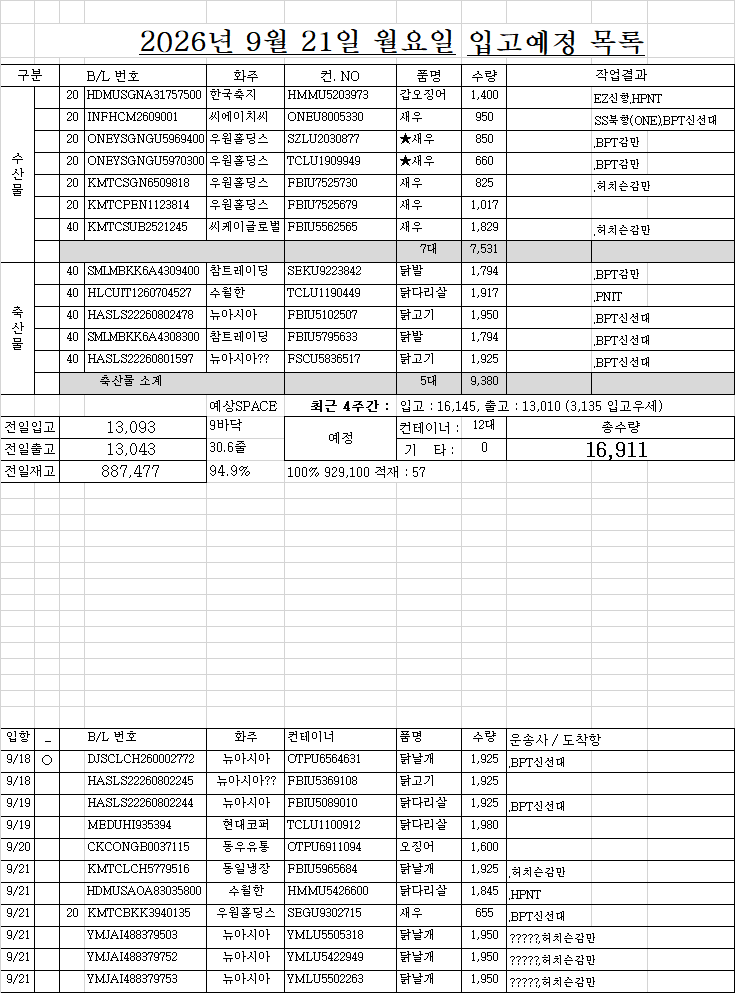
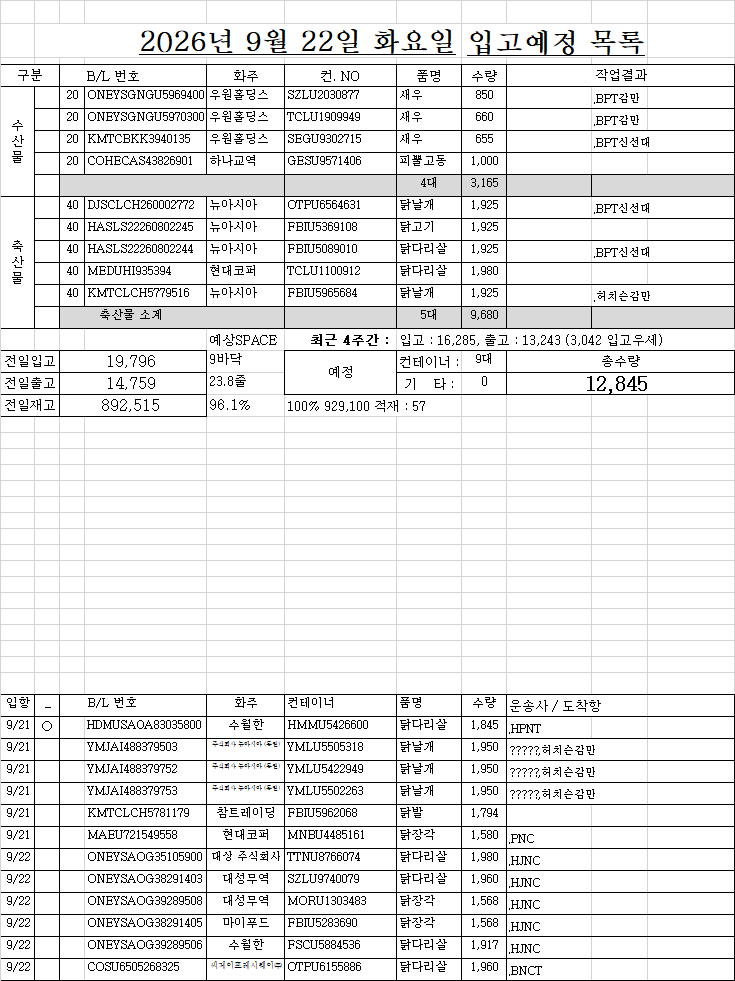
0921

diff --git a/list.html b/list.html
@@ -171,54 +171,45 @@
 <!-- ★★★★★★ 따로 빼 놔야한다. 복붙하면 첫칸 비어도 되는데, 여기서는 첫칸비우면 당겨진다. -->
 <!-- ★ 엑셀범위를 브라우저 textarea에 붙여넣으면 첫셀 비어도 제대로 되는데... HTML에 붙여놓은 자료는 처음셀이 비어있으면 당겨짐 -->
 <div class="d-none" id="원본text_리스트1부터w요약열까지">작성	면허	B/LNO.	화주	컨테이너NO.	품명	수량	반입NO.	입항일	구분	도착일	도착시간	구분	운도VBA	04/27 월 07:21	화찰BL	화찰 선명	화물관리번호	화찰수량	화찰중량	화찰입항	리스트시트기준열	
-1	○	HDMUSGNA31757500	한국축지	HMMU5203973	갑오징어	1,400 		9/17	1			20	EZ신항.HPNT	(주)이지트랜스, CY : 에이치엠엠피에스에이신항만(주), 컨진행 : 입항적재화물목록 운항정보 정정, 선사 : 에이치엠엠(주)	HDMUSGNA31757500	HMM MIRACLE	26HDMUA499I-0231-	1,400 	4,928.00 	2026.09.17	09/18 금 16:33	
-1	○	INFHCM2609001	씨에이치씨	ONEU8005330	새우	950 		9/18	1			20	SS북항(ONE).BPT신선대	(주)에스에스물류, CY : 신선대감만터미널(주) 신선대CY, 컨진행 : 입항적재화물목록 운항정보 정정, 선사 : 피아이엘코리아(주), 포딩 : 주식회사 엔제이글로벌	INFHCM2609001	KOTA GAYA	26PILK0053I-5044-0001	950 	7,125.00 	2026.09.18	조회정보	
-1	○	ONEYSGNGU5969400	우원홀딩스	SZLU2030877	★새우	850 		9/18	1			20	.BPT감만	(주)에스에스물류, CY : 신선대감만터미널(주) 감만CY, 컨진행 : 보세운송 신고 수리, 선사 : 남성해운주식회사	ONEYSGNGU5969400	STARSHIP MERCURY	26NSSLI062I-5061-	850 	9,775.00 	2026.09.18	적재	57
-1	○	ONEYSGNGU5970300	우원홀딩스	TCLU1909949	★새우	660 		9/18	1			20	.BPT감만	(주)에스에스물류, CY : 신선대감만터미널(주) 감만CY, 컨진행 : 보세운송 신고 수리, 선사 : 남성해운주식회사	ONEYSGNGU5970300	STARSHIP MERCURY	26NSSLI062I-5062-	660 	4,620.00 	2026.09.18	4,617 	3줄
-1	○	KMTCSGN6509818	우원홀딩스	FBIU7525730	새우	825 		9/18	1			20	.허치슨감만	(주)에스에스물류, CY : 한국허치슨터미널(주), 컨진행 : 하선신고 수리완료, 선사 : 천경해운(주)	KMTCSGN6509818	SKY CHALLENGE	26CKCO0932I-0009-	825 	7,199.55 	2026.09.18	6,156 	4줄
-1	○	KMTCPEN1123814	우원홀딩스	FBIU7525679	새우	1,017 		9/18	1			20		(주)에스에스물류, CY : 한국허치슨터미널(주), 컨진행 : 보세운송 신고 수리, 선사 : 고려해운(주)	KMTCPEN1123814	KMTC KEELUNG	26KMTC3207I-0069-	1,017 	7,890.50 	2026.09.18	7,695 	5줄
-1		KMTCSUB2521245	씨케이글로벌	FBIU5562565	새우	1,829 		9/19	1				.허치슨감만	면허?, CY : 한국허치슨터미널(주), 컨진행 : 입항적재화물목록 제출, 선사 : 고려해운(주)	KMTCSUB2521245	KMTC SHANGHAI	26KMTC3199I-0044-	1,829 	21,948.00 	2026.09.19	9,234 	6줄
-1	○	SMLMBKK6A4309400	참트레이딩	SEKU9223842	닭발	1,794 		9/16	2				.BPT감만	(주)나모티엘에스, CY : 신선대감만터미널(주) 감만CY, 컨진행 : 보세운송 신고 수리, 선사 : 범주해운(주)	SMLMBKK6A4309400	PANCON BRIDGE	26PCLUBK12I-3305-	1,794 	22,604.40 	2026.09.16	구분	대수
-1	○	HLCUIT1260704527	수월한	TCLU1190449	닭다리살	1,917 		9/17	2	9/18	16:21		.PNIT	에이스로지스틱(주), CY : 부산신항국제터미널(주), 컨진행 : 반출완료, 선사 : 오션네트워크익스프레스코리아(주)	HLCUIT1260704527	ONE SHINE	26ONEY1499I-0006-	1,917 	23,962.50 	2026.09.17	출고입고	4주간
-1	○	HASLS22260802478	뉴아시아	FBIU5102507	닭고기	1,950 		9/18	2				.BPT신선대	에이스로지스틱(주), CY : 신선대감만터미널(주) 신선대CY, 컨진행 : 입항적재화물목록 운항정보 정정, 선사 : 범주해운(주)	HASLS22260802478	PANCON CHAMPION	26PCLUCK09I-1044-	1,950 	24,960.00 	2026.09.18	1일 7/5	9바닥줄
-1	○	SMLMBKK6A4308300	참트레이딩	FBIU5795633	닭발	1,794 		9/18	2				.BPT신선대	(주)나모티엘에스, CY : 신선대감만터미널(주) 신선대CY, 컨진행 : 입항적재화물목록 운항정보 정정, 선사 : 범주해운(주)	SMLMBKK6A4308300	PANCON CHAMPION	26PCLUCK09I-8005-	1,794 	22,604.40 	2026.09.18	13,010 	8.5
-1	○	HASLS22260801597	뉴아시아??	FSCU5836517	닭고기	1,925 		9/19	2				.BPT신선대	에이스로지스틱(주), CY : 신선대감만터미널(주) 신선대CY, 컨진행 : 하선신고 수리완료, 선사 : 장금상선(주)	HASLS22260801597	SAWASDEE RIGEL	26SNKO3423I-2164-	1,925 	24,640.00 	2026.09.19	16,145 	10.5
-2	○	DJSCLCH260002772	뉴아시아	OTPU6564631	닭날개	1,925 		9/18	2				.BPT신선대	에이스로지스틱(주), CY : 신선대감만터미널(주) 신선대CY, 컨진행 : 보세운송 신고 수리, 선사 : 범주해운(주)	DJSCLCH260002772	PANCON CHAMPION	26PCLUCK09I-5114-	1,925 	24,640.00 	2026.09.18	내국제외	
-		HASLS22260802245	뉴아시아??	FBIU5369108	닭고기	1,925 		9/18	2												구분	대수
-		HASLS22260802244	뉴아시아	FBIU5089010	닭다리살	1,925 		9/19	2				.BPT신선대								수산	19 
-		MEDUHI935394	현대코퍼	TCLU1100912	닭다리살	1,980 		9/19	2					면허?, CY : 부산신항만(주)자유무역지역, 컨진행 : 하선신고 수리완료, 선사 : 엠에스씨코리아(주)	MEDUHI935394	MSC LOS ANGELES	26MSCU4342I-0043-	1,980 	24,924.24 	2026.09.19	축산	56 
-		CKCONGB0037115	동우유통	OTPU6911094	오징어	1,600 	글자번짐	9/20	1												합계	75 
-		KMTCLCH5779516	동일냉장	FBIU5965684	닭날개	1,925 		9/21	2				.허치슨감만									
-		HDMUSAOA83035800	수월한	HMMU5426600	닭다리살	1,845 		9/21	2				.HPNT	면허?, CY : 에이치엠엠피에스에이신항만(주), 컨진행 : 입항적재화물목록 제출, 선사 : 에이치엠엠(주)	HDMUSAOA83035800	HMM LIME	26HDMUA485I-0341-	1,845 	23,164.76 	2026.09.21	화주	대수
-		KMTCBKK3940135	우원홀딩스	SEGU9302715	새우	655 		9/21	1			20	.BPT신선대	면허?, CY : 신선대감만터미널(주) 감만CY, 컨진행 : 입항적재화물목록 심사완료, 선사 : 고려해운(주)	KMTCBKK3940135	KMTC BANGKOK	26KMTC3219I-0008-	655 	4,920.85 	2026.09.21	수월한	13
-		YMJAI488379503	주식회사 뉴아시아 (동일)	YMLU5505318	닭날개	1,950 		9/21	2				?????,허치슨감만	면허?, CY : 한국허치슨터미널(주), 컨진행 : 입항적재화물목록 심사완료, 선사 : 고려해운(주)	YMJAI488379503	KMTC SEOUL	26KMTC3203I-4032-	1,950 	24,453.00 	2026.09.21	우원홀딩스	9
-		YMJAI488379752	주식회사 뉴아시아 (동일)	YMLU5422949	닭날개	1,950 		9/21	2				?????,허치슨감만	면허?, CY : 한국허치슨터미널(주), 컨진행 : 입항적재화물목록 심사완료, 선사 : 고려해운(주)	YMJAI488379752	KMTC SEOUL	26KMTC3203I-4035-	1,950 	24,455.00 	2026.09.21	씨케이글로벌	5
-		YMJAI488379753	주식회사 뉴아시아 (동일)	YMLU5502263	닭날개	1,950 		9/21	2				?????,허치슨감만	면허?, CY : 한국허치슨터미널(주), 컨진행 : 입항적재화물목록 심사완료, 선사 : 고려해운(주)	YMJAI488379753	KMTC SEOUL	26KMTC3203I-4036-	1,950 	24,414.00 	2026.09.21	뉴아시아	4
-		ONEYSAOG35105900	대상 주식회사	TTNU8766074	닭다리살	1,980 		9/22	2				.HJNC								대성무역	4
-		ONEYSAOG38291403	대성무역	SZLU9740079	닭다리살	1,960 		9/22	2				.HJNC								씨제이프레시웨이㈜	4
-		ONEYSAOG39289508	대성무역	MORU1303483	닭장각	1,568 		9/22	2				.HJNC								아스트로스	4
-		ONEYSAOG38291405	마이푸드	FBIU5283690	닭장각	1,568 		9/22	2				.HJNC								㈜이마트	4
-		ONEYSAOG39289506	수월한	FSCU5884536	닭다리살	1,917 		9/22	2				.HJNC								이마트	4
-		COSU6505268325	씨제이프레시웨이㈜	OTPU6155886	닭다리살	1,960 		9/22	2				.BNCT								대상 주식회사	3
-		MAEU721549558	현대코퍼	MNBU4485161	닭장각	1,580 		9/22	2				.PNC								현대코퍼	3
-		MAEU721549557	현대코퍼	MNBU9108303	닭장각	1,580 		9/22	2				.PNC								주식회사 뉴아시아 (동일)	3
-		ONEYSGNGU7817500	우원홀딩스	ONEU9388486	새우	1,101 		9/23	1			40	.BPT신선대								참트레이딩	2
-		ONEYSGNGY2163500	우원홀딩스	SZLU3607536	새우	930 		9/23	1			20	.BPT신선대								수월한 주식회사	2
-		COSU6502560470	대상 주식회사	OERU4239672	닭다리살	1,916 		9/24	2				.BNCT								뉴아시아??	2
-		HDMUSGNA20398600	우원홀딩스	HMMU5205852	새우	1,200 		9/24	1			20									동일냉장	1
-		HDMUSGNA43755000	우원홀딩스	HMMU5201749	새우	853 		9/24	1			20									포쉐프	1
-		COSU6502042240	포쉐프	OERU4069350	베이컨	5,000 		9/24	2				.BNCT								(유)SM무역	1
-		SNG0519271	(유)SM무역	FBIU5839562	오징어	1,225 		9/25	1				.BNCT								씨에이치씨	1
-		ONEYSAOG41254402	대성무역	FSCU5833518	닭장각	1,568 		9/26	2				.HJNC								한국축지	1
-		MAEUJBS327643	수월한	MNBU0422036	닭다리살	1,958 		9/26	2				.PNC								동우유통	1
-		HDMUSAOA27114300	수월한	HMMU5410646	닭발	1,551 		9/26	2				.HPNT								마이푸드	1
-		HDMUSAOA92812701	씨제이프레시웨이㈜	HMMU5410184	닭다리살	1,960 		9/26	2				.HPNT								주식회사 아스트로스	1
-		ONEYSGZG08517301	씨케이글로벌	ONEU9413130	북방대합	88 		9/26	1				.HJNC								하나교역	1
-		ONEYSGZG08517300	씨케이글로벌	ONEU9413130	주꾸미등	1,798 		9/26	1				.HJNC									
-		COSU6507834394	아스트로스	OERU4151494	닭다리살	1,960 		9/26	2				.HJNC									
-		COSU6453482330	아스트로스	FBIU5654363	닭다리살	1,960 		9/26	2				.HJNC									
-		HDMUSAOA37513900	㈜이마트	HMMU5490847	닭다리살			9/26	2				?????,HPNT			HMM PRESTIGE						
-		COSU6453481650	수월한	TEMU9328038	닭다리살	1,917 		9/27	2													
+1	○	ONEYSGNGU5969400	우원홀딩스	SZLU2030877	새우	850 		9/18	1			20	.BPT감만	(주)에스에스물류, CY : 신선대감만터미널(주) 감만CY, 컨진행 : 반입완료, 선사 : 남성해운주식회사	ONEYSGNGU5969400	STARSHIP MERCURY	26NSSLI062I-5061-	850 	9,775.00 	2026.09.18	09/21 월 16:23	
+1	○	ONEYSGNGU5970300	우원홀딩스	TCLU1909949	새우	660 		9/18	1			20	.BPT감만	(주)에스에스물류, CY : 신선대감만터미널(주) 감만CY, 컨진행 : 반입완료, 선사 : 남성해운주식회사	ONEYSGNGU5970300	STARSHIP MERCURY	26NSSLI062I-5062-	660 	4,620.00 	2026.09.18	조회정보	
+1		KMTCBKK3940135	우원홀딩스	SEGU9302715	새우	655 		9/21	1			20	.BPT신선대	면허?, CY : 신선대감만터미널(주) 감만CY, 컨진행 : 입항적재화물목록 운항정보 정정, 선사 : 고려해운(주)	KMTCBKK3940135	KMTC BANGKOK	26KMTC3219I-0008-	655 	4,920.85 	2026.09.21	적재	57
+1		COHECAS43826901	하나교역	GESU9571406	피뿔고동	1,000 			1			20									4,617 	3줄
+1	○	DJSCLCH260002772	뉴아시아	OTPU6564631	닭날개	1,925 		9/18	2				.BPT신선대	에이스로지스틱(주), CY : 신선대감만터미널(주) 신선대CY, 컨진행 : 반입완료, 선사 : 범주해운(주)	DJSCLCH260002772	PANCON CHAMPION	26PCLUCK09I-5114-	1,925 	24,640.00 	2026.09.18	6,156 	4줄
+1	○	HASLS22260802245	뉴아시아	FBIU5369108	닭고기	1,925 		9/20	2					면허?, CY : 신선대감만터미널(주) 신선대CY, 컨진행 : 반입완료, 선사 : 장금상선(주)	HASLS22260802245	SAWASDEE SPICA	26SNKO3430I-2051-	1,925 	24,640.00 	2026.09.20	7,695 	5줄
+1	○	HASLS22260802244	뉴아시아	FBIU5089010	닭다리살	1,925 		9/20	2				.BPT신선대	면허?, CY : 신선대감만터미널(주) 신선대CY, 컨진행 : 반입완료, 선사 : 장금상선(주)	HASLS22260802244	SAWASDEE SPICA	26SNKO3430I-2050-	1,925 	24,640.00 	2026.09.20	9,234 	6줄
+1	○	MEDUHI935394	현대코퍼	TCLU1100912	닭다리살	1,980 		9/20	2					면허?, CY : 부산신항만(주)자유무역지역, 컨진행 : 반입완료, 선사 : 엠에스씨코리아(주)	MEDUHI935394	MSC LOS ANGELES	26MSCU4342I-0043-	1,980 	24,924.24 	2026.09.20	구분	대수
+1	○	KMTCLCH5779516	뉴아시아	FBIU5965684	닭날개	1,925 		9/21	2				.허치슨감만	면허?, CY : 한국허치슨터미널(주), 컨진행 : 입항적재화물목록 운항정보 정정, 선사 : 양밍한국(주)	KMTCLCH5779516	YM COOPERATION	26YMJA0142I-0021-	1,925 	24,640.00 	2026.09.21	출고입고	4주간
+	○	HDMUSAOA83035800	수월한	HMMU5426600	닭다리살	1,845 		9/21	2				.HPNT	면허?, CY : 에이치엠엠피에스에이신항만(주), 컨진행 : 입항적재화물목록 심사완료, 선사 : 에이치엠엠(주)	HDMUSAOA83035800	HMM LIME	26HDMUA485I-0341-	1,845 	23,164.76 	2026.09.21	1일 7/5	9바닥줄
+		YMJAI488379503	주식회사 뉴아시아 (동일)	YMLU5505318	닭날개	1,950 		9/21	2				?????,허치슨감만	면허?, CY : 한국허치슨터미널(주), 컨진행 : 입항적재화물목록 운항정보 정정, 선사 : 고려해운(주)	YMJAI488379503	KMTC SEOUL	26KMTC3203I-4032-	1,950 	24,453.00 	2026.09.21	13,010 	8.5
+		YMJAI488379752	주식회사 뉴아시아 (동일)	YMLU5422949	닭날개	1,950 		9/21	2				?????,허치슨감만	면허?, CY : 한국허치슨터미널(주), 컨진행 : 입항적재화물목록 운항정보 정정, 선사 : 고려해운(주)	YMJAI488379752	KMTC SEOUL	26KMTC3203I-4035-	1,950 	24,455.00 	2026.09.21	16,145 	10.5
+		YMJAI488379753	주식회사 뉴아시아 (동일)	YMLU5502263	닭날개	1,950 		9/21	2				?????,허치슨감만	면허?, CY : 한국허치슨터미널(주), 컨진행 : 입항적재화물목록 운항정보 정정, 선사 : 고려해운(주)	YMJAI488379753	KMTC SEOUL	26KMTC3203I-4036-	1,950 	24,414.00 	2026.09.21	내국제외	
+		KMTCLCH5781179	참트레이딩	FBIU5962068	닭발	1,794 		9/21	2					면허?, CY : 한국허치슨터미널(주), 컨진행 : 반입완료, 선사 : 고려해운(주)	KMTCLCH5781179	KMTC SEOUL	26KMTC3203I-0148-	1,794 	22,604.40 	2026.09.21	구분	대수
+		MAEU721549558	현대코퍼	MNBU4485161	닭장각	1,580 		9/21	2				.PNC	면허?, CY : 부산신항만(주)자유무역지역, 컨진행 : 입항적재화물목록 제출, 선사 : 하파그로이드코리아(주)	MAEU721549558	COCHRANE	26HLCU1001I-1280-	1,580 	24,387.30 	2026.09.21	수산	14 
+		ONEYSAOG35105900	대상 주식회사	TTNU8766074	닭다리살	1,980 		9/22	2				.HJNC	면허?, CY : 한진부산컨테이너터미널(주), 컨진행 : 입항적재화물목록 제출, 선사 : 오션네트워크익스프레스코리아(주)	ONEYSAOG35105900	ONE TREASURE	26ONEY1421I-7321-	1,980 	24,948.00 	2026.09.22	축산	58 
+		ONEYSAOG38291403	대성무역	SZLU9740079	닭다리살	1,960 		9/22	2				.HJNC	면허?, CY : 한진부산컨테이너터미널(주), 컨진행 : 입항적재화물목록 제출, 선사 : 오션네트워크익스프레스코리아(주)	ONEYSAOG38291403	ONE TREASURE	26ONEY1421I-7326-	1,960 	24,500.00 	2026.09.22	합계	72 
+		ONEYSAOG39289508	대성무역	MORU1303483	닭장각	1,568 		9/22	2				.HJNC	면허?, CY : 한진부산컨테이너터미널(주), 컨진행 : 입항적재화물목록 제출, 선사 : 오션네트워크익스프레스코리아(주)	ONEYSAOG39289508	ONE TREASURE	26ONEY1421I-7340-	1,568 	24,304.00 	2026.09.22		
+		ONEYSAOG38291405	마이푸드	FBIU5283690	닭장각	1,568 		9/22	2				.HJNC	면허?, CY : 한진부산컨테이너터미널(주), 컨진행 : 입항적재화물목록 제출, 선사 : 오션네트워크익스프레스코리아(주)	ONEYSAOG38291405	ONE TREASURE	26ONEY1421I-7328-	1,568 	24,304.00 	2026.09.22	화주	대수
+		ONEYSAOG39289506	수월한	FSCU5884536	닭다리살	1,917 		9/22	2				.HJNC	면허?, CY : 한진부산컨테이너터미널(주), 컨진행 : 입항적재화물목록 제출, 선사 : 오션네트워크익스프레스코리아(주)	ONEYSAOG39289506	ONE TREASURE	26ONEY1421I-7338-	1,917 	23,962.50 	2026.09.22	수월한	16
+		COSU6505268325	씨제이프레시웨이㈜	OTPU6155886	닭다리살	1,960 		9/22	2				.BNCT								우원홀딩스	7
+		ONEYSGNGU7817500	우원홀딩스	ONEU9388486	새우	1,101 		9/23	1			40	.BPT신선대								뉴아시아	5
+		ONEYSGNGY2163500	우원홀딩스	SZLU3607536	새우	930 		9/23	1			20	.BPT신선대								대성무역	4
+		COSU6502560470	대상 주식회사	OERU4239672	닭다리살	1,916 		9/24	2				.BNCT								씨제이프레시웨이㈜	4
+		KMTCSGN6505925	씨코스터	TEXU9029072	새우등	720 		9/24	1			20									씨케이글로벌	4
+		HDMUSGNA20398600	우원홀딩스	HMMU5205852	새우	1,200 		9/24	1			20									아스트로스	4
+		HDMUSGNA43755000	우원홀딩스	HMMU5201749	새우	853 		9/24	1			20									㈜이마트	4
+		COSU6502042240	포쉐프	OERU4069350	베이컨	5,000 		9/24	2				.BNCT								이마트	4
+		SNG0519271	(유)SM무역	FBIU5839562	오징어	1,225 		9/25	1				.BNCT								마이푸드	3
+		ONEYSAOG41254402	대성무역	FSCU5833518	닭장각	1,568 		9/26	2				.HJNC								대상 주식회사	3
+		MAEUJBS327643	수월한	MNBU0422036	닭다리살	1,958 		9/26	2				.PNC								주식회사 뉴아시아 (동일)	3
+		HDMUSAOA27114300	수월한	HMMU5410646	닭발	1,551 		9/26	2				.HPNT								현대코퍼	2
+		HDMUSAOA92812701	씨제이프레시웨이㈜	HMMU5410184	닭다리살	1,960 		9/26	2				.HPNT								수월한 주식회사	2
+		ONEYSGZG08517301	씨케이글로벌	ONEU9413130	북방대합	88 		9/26	1				.HJNC								참트레이딩	2
+		ONEYSGZG08517300	씨케이글로벌	ONEU9413130	주꾸미등	1,798 		9/26	1				.HJNC								씨코스터	1
+		COSU6507834394	아스트로스	OERU4151494	닭다리살	1,960 		9/26	2				.HJNC								포쉐프	1
+		COSU6453482330	아스트로스	FBIU5654363	닭다리살	1,960 		9/26	2				.HJNC								(유)SM무역	1
+		HDMUSAOA37513900	㈜이마트	HMMU5490847	닭다리살			9/26	2				?????,HPNT			HMM PRESTIGE					하나교역	1
+		COSU6453481650	수월한	TEMU9328038	닭다리살	1,917 		9/27	2												주식회사 아스트로스	1
 		MEDUR3391345	㈜이마트	BMOU9649707	닭다리살			9/27	2				?????,HPNT			MSC EMMA						
 		MEDUR3391022	㈜이마트	MSGU9112229	닭다리살			9/27	2				?????,HPNT			MSC EMMA						
 		MEDUWE230158	대상 주식회사	MSGU9089026	닭다리살	1,980 		9/28	2				.PNC									
@@ -244,9 +235,14 @@
 		MAEUJBS328088	수월한	MNBU0340489	닭다리살	1,839 		11/3	2				.확인안함									
 		YMJAB951092062	씨제이프레시웨이㈜	YMLU5500384	닭다리살	1,960 		미정	2				.확인안함									
 		KMTCLCH5714614	뉴아시아	FBIU5377443	닭다리살	1,925 			2				.허치슨감만									
+		HDMUSAOA85141803	마이푸드	HMMU5414997	닭다리살	1,960 			2													
+		HDMUSAOA85141801	마이푸드	HDMU5625245	닭다리살	1,960 			2													
+		HDMUSAOA23097900	수월한	TCLU1310837	닭다리살	1,958 			2													
+		HDMUSAOA02881000	수월한	TLLU1087510	닭다리살	1,953 			2													
+		MAEUJBS326328	수월한	MNBU0140032	닭다리살	1,954 			2													
+		COSU6508709367	수월한	OERU4323274	닭다리살	1,917 			2													
 	○	MAEUJBS322346	이마트	MNBU4261644	1945 CARTONS WITH  23340 KG NET WEIGHT OF FROZEN C	1,945 	9/18완이상보고		2	9/17	18:46			(주)에스에스물류, CY : 부산신항만(주)자유무역지역, 컨진행 : 반입물품 이상보고, 선사 : 한국머스크(주)	MAEUJBS322346	MONACO	26MAEU0646I-1170-	1,945 	24,330.05 	2026.09.15		
-		COHECAS43826901	하나교역	GESU9571406	피뿔고동	1,000 			1			20										
-
+		SMLMBKK6A4542300	참트레이딩	SEKU9223307	닭발	1,794 			2													
 </div>
 <div class="d-none" id="원본text_입항관리도크부터도착항우측까지">도크	화주	컨테이너	작업순서	상세내용 참조		운송사	물품		06/05 목 16:15	B/L	도착항	상세내용
 </div>   

diff --git a/ycy.html b/ycy.html
@@ -26,10 +26,6 @@
     <label class="form-check-label" for="check_보기숨기기">보기/숨기기</label>
   </span> 
   <span> 
-    <input class="form-check-input 체크input" type="checkbox" value="" id="check_버튼45감싸기">
-    <label class="form-check-label" for="check_버튼45감싸기">버튼45</label>
-  </span>  
-  <span> 
     <input class="form-check-input 체크input" type="checkbox" value="" id="check_버튼45오른쪽단독">
     <label class="form-check-label" for="check_버튼45오른쪽단독">색칠</label>
   </span>
@@ -56,43 +52,56 @@
 <div id="기본에서이전회차계산정보구조" class="자식div가로 자신inlineBlock">
   <div style="display:block;">기존 당번정보의 이전회차 정보를 계산한 정보</div><!--이것만 한줄 전체, 나머지 #기본정보 자식 div 가로 -->
   <div id="기본_321당첨구조" class="자식div상하붙임">
-    <div style="display: block;font-size:12px;"><button>1</button><button></button><button></button><button></button></div>
+    <div class="기본_321_기능" style="display: block;font-size:12px;margin:1px 0px;"><button>관련정보</button></div>
     <div style="display: block;font-size:12px;">미출,1,2,3출(당첨)</div>
-    <div id="기본_321당첨_머리글"> 111<!--div안에 span 5개 1줄--></div>
+    <div class="단독" id="기본_321당첨_머리글"> 111<!--div안에 span 5개 1줄--></div>
     <div id="기본_321당첨" class="자식div상하붙임"> 111<!--div안에 span 5개 1줄 * 50--></div>
   </div>
   <div id="기본_321개수구조" class="자식div상하붙임">
-    <div style="display: block;font-size:12px;">미출,1,2,3출(개수)</div>
+    <div class="기본_321_기능" style="display: block;font-size:12px;margin:1px 0px;"></div>
+    <div class="단독" style="display: block;font-size:12px;">미출,1,2,3출(개수)</div>
     <div id="기본_321개수_머리글"> 111<!--div안에 span 5개 1줄--></div>
     <div id="기본_321개수" class="자식div상하붙임"> 111<!--div안에 span 5개 1줄 * 50--></div>
   </div>
   <div id="기본_321평균구조" class="자식div상하붙임">
+    <div class="기본_321_기능" style="display: block;font-size:12px;margin:1px 0px;"></div>
     <div style="display: block;font-size:12px;">미출,1,2,3출(평균)</div>
     <div id="기본_321평균_머리글"> 111<!--div안에 span 5개 1줄--></div>
     <div id="기본_321평균" class="자식div상하붙임"> 111<!--div안에 span 5개 1줄 * 50--></div>
   </div>
-  <div id="기본_30주개수구조" class="자식div상하붙임">
-    <div style="display: block;font-size:12px;">30주숫자개수</div>
-    <div id="기본_30주개수_머리글"> <!--div안에 span 7개 1줄--></div>
-    <div id="기본_30주개수" class="자식div상하붙임"> <!--div안에 span 7개 1줄 * 50--></div>
-  </div>
-  <div id="기본_30주당첨구조" class="자식div상하붙임">    
+  <div id="기본_30주당첨구조" class="자식div상하붙임">
+    <div class="기본_321_기능" style="display: block;font-size:12px;margin:1px 0px;"><button>관련정보</button></div>
     <div style="display: block;font-size:12px;">30주당첨개수</div>
     <div id="기본_30주당첨_머리글"> <!--div안에 span 7개 1줄--></div>
     <div id="기본_30주당첨" class="자식div상하붙임"> <!--div안에 span 7개 1줄 * 50--></div>
   </div>
+  <div id="기본_30주개수구조" class="자식div상하붙임">        
+    <div class="기본_321_기능" style="display: block;font-size:12px;margin:1px 0px;"></div>
+    <div style="display: block;font-size:12px;">30주숫자개수</div>
+    <div id="기본_30주개수_머리글"> <!--div안에 span 7개 1줄--></div>
+    <div id="기본_30주개수" class="자식div상하붙임"> <!--div안에 span 7개 1줄 * 50--></div>
+  </div>
+  <div id="기본_30주평균구조" class="자식div상하붙임">        
+    <div class="기본_321_기능" style="display: block;font-size:12px;margin:1px 0px;"></div>
+    <div style="display: block;font-size:12px;">30주평균</div>
+    <div id="기본_30주평균_머리글"> <!--div안에 span 7개 1줄--></div>
+    <div id="기본_30주평균" class="자식div상하붙임"> <!--div안에 span 7개 1줄 * 50--></div>
+  </div>
   <div id="기본_빈공간개수구조" class="자식div상하붙임">
-    <div style="display: block;font-size:12px;">띄워진곳 칸수</div>
+    <div class="기본_321_기능" style="display: block;font-size:12px;margin:1px 0px;"><button>관련정보</button></div>
+    <div style="display: block;font-size:12px;">전회차 띄워진곳 칸수</div>
     <div id="기본_빈공간개수_머리글"> <!--div안에 span 6개 1줄--></div>
     <div id="기본_빈공간개수" class="자식div상하붙임"> <!--div안에 span 6개 1줄 * 50--></div>
   </div>
   <div id="기본_빈공간당첨구조" class="자식div상하붙임">
-    <div style="display: block;font-size:12px;">띄워진곳 당첨</div>
+    <div class="기본_321_기능" style="display: block;font-size:12px;margin:1px 0px;"></div>
+    <div style="display: block;font-size:12px;">전회차 띄워진곳 당첨</div>
     <div id="기본_빈공간당첨_머리글"> <!--div안에 span 6개 1줄--></div>
     <div id="기본_빈공간당첨" class="자식div상하붙임"> <!--div안에 span 6개 1줄 * 50--></div>
   </div>
   <div id="기본_빈공간평균구조" class="자식div상하붙임">
-    <div style="display: block;font-size:12px;">띄워진곳 평균</div>
+    <div class="기본_321_기능" style="display: block;font-size:12px;margin:1px 0px;"></div>
+    <div style="display: block;font-size:12px;">전회차 띄워진곳 평균</div>
     <div id="기본_빈공간평균_머리글"> <!--div안에 span 6개 1줄--></div>
     <div id="기본_빈공간평균" class="자식div상하붙임"> <!--div안에 span 6개 1줄 * 50--></div>
   </div>

diff --git a/portal/assets/js/ycy.js b/portal/assets/js/ycy.js
@@ -1,15 +1,14 @@
 //span구조정보 'id,span개수만큼div,span개수만큼div반복생성'
-const span구조정보 = [
-  '#기본_다음당번,9,1', '#기본_당번,9,50', 
-  '#기본_321당첨_머리글,5,1', '#기본_321당첨,5,50', 
-  '#기본_321개수_머리글,5,1', '#기본_321개수,5,50', 
-  '#기본_321평균_머리글,5,1', '#기본_321평균,5,50', 
-  '#기본_30주개수_머리글,7,1', '#기본_30주개수,7,50', 
-  '#기본_30주당첨_머리글,7,1', '#기본_30주당첨,7,50', 
-  '#기본_빈공간개수_머리글,6,1', '#기본_빈공간개수,6,50', 
-  '#기본_빈공간당첨_머리글,6,1', '#기본_빈공간당첨,6,50',
-  '#기본_빈공간평균_머리글,6,1', '#기본_빈공간평균,6,50'
-];
+const span구조정보 = ['#기본_다음당번,9,1', '#기본_당번,9,50', 
+                     '#기본_321당첨_머리글,5,1', '#기본_321당첨,5,50', 
+                     '#기본_321개수_머리글,5,1', '#기본_321개수,5,50', 
+                     '#기본_321평균_머리글,5,1', '#기본_321평균,5,50', 
+                     '#기본_30주당첨_머리글,6,1', '#기본_30주당첨,6,50', 
+                     '#기본_30주개수_머리글,6,1', '#기본_30주개수,6,50', 
+                     '#기본_30주평균_머리글,6,1', '#기본_30주평균,6,50', 
+                     '#기본_빈공간개수_머리글,6,1', '#기본_빈공간개수,6,50', 
+                     '#기본_빈공간당첨_머리글,6,1', '#기본_빈공간당첨,6,50',
+                     '#기본_빈공간평균_머리글,6,1', '#기본_빈공간평균,6,50'];
 //구조만들기
 function span(num) {return '<div>' + Array.from({length:num}).map(() => {return '<span></span>'}).join('') + '</div>';}
 span구조정보.forEach((ele) => {
@@ -19,19 +18,58 @@ span구조정보.forEach((ele) => {
   $(selector).html(spansHtml); 
 });
 
+const span머리글정보 = ['#기본_321당첨_머리글,5,장_미_1_2_3',
+                      '#기본_321개수_머리글,5,장_미_1_2_3',
+                      '#기본_321평균_머리글,5,장_미_1_2_3',
+                      '#기본_30주개수_머리글,6,2_3_4_5_6_M',
+                      '#기본_30주당첨_머리글,6,2_3_4_5_6_M',
+                      '#기본_30주평균_머리글,6,2_3_4_5_6_M',
+                      '#기본_빈공간개수_머리글,6,A_B_C_D_E_F',
+                      '#기본_빈공간당첨_머리글,6,A_B_C_D_E_F',
+                      '#기본_빈공간평균_머리글,6,A_B_C_D_E_F'];
+span머리글정보.forEach((ele) => {
+  const [selector, spanArg, countStr] = ele.split(',');
+  const text=countStr.split('_');
+  Array.from($(selector + ' > div > span')).forEach( (ele,index) => ele.innerHTML=text[index]);
+});
+  
+
 //데이터 준비
 const 원본 = $('#숨김정보_당번전체').text().replace(/\s/g, '').split('_');
 const 데이터 = [];
-for (let i = 0; i < 원본.length; i += 9) {데이터.push({회차: 원본[i],날짜: 원본[i + 1],당첨번호: 원본.slice(i + 2, i + 8).map(Number)});}
+for (let i = 0; i < 원본.length; i += 9) {데이터.push({회차: 원본[i],날짜: 
+                                         원본[i + 1],당첨번호: 원본.slice(i + 2, i + 8).map(Number),
+                                         보너스: Number(원본[i + 8])}
+                                      );}
 
 let 회차=데이터.length-1; // 데이터 만든 후, 첫 회차 설정, 순서일치위해 0회차가 기록되어 있음
 //회차select옵션생성, 회차는 순서가 중요한게 아니라 결과 그대로 회차를 의마하는 숫자로 활용된다.
 let 옵션 = 데이터.map(v => `<option>${v.회차}</option>`).reverse().join('');
 $('#당번_회차select, #분석자료_회차select').html(옵션);
 
-function 당번_회차change설정() { // +, -, 옵션변경 : +, - 일때는 html에서 회차를 +,-하여 전달하는데 범위 벗어나면 여기서 원래대로 처리한다
-  if (회차 < 0 || 회차 > 데이터.length - 1) {회차 = 회차 < 0 ? 회차 + 1 : 회차 - 1; alert('+,- 실행시, 최소값보다 작거나 최대값보다 크다.');return;}
-  $('#당번_회차select').val(회차); //옵션에 없는 회차(문자)이면 공백으로 보임 공백 ''전달과 같음
+당번_회차change설정();
+
+function 당번_회차change설정() {
+  if (회차 < 0 || 회차 > 데이터.length - 1) {회차 = 회차 < 0 ? 회차 + 1 : 회차 - 1;alert('+,- 실행시, 최소값보다 작거나 최대값보다 크다.');return;}
+  // 다음 당번이 없는 경우 그리고 else
+  if (회차 > 데이터.length - 2) {document.querySelectorAll('#기본_다음당번 span').forEach(ele => ele.textContent = '_');} 
+  else {// 다음 회차 데이터
+    const 다음 = 데이터[회차 + 1];
+    const 다음값 = [다음.회차,다음.날짜,...다음.당첨번호,다음.보너스];
+    document.querySelectorAll('#기본_다음당번 span').forEach((span, i) => {span.textContent = 다음값[i];});
+  }
+  $('#당번_회차select').val(회차); // ---정상 change이므로 html값 변경
+  // #기본_당번 > div : 50개
+  document.querySelectorAll('#기본_당번 > div').forEach((div, i) => {
+      const 현재 = 데이터[회차-i];
+      const 현재값 = [현재.회차,현재.날짜,...현재.당첨번호,현재.보너스];
+      // 각 div 안의 span : 9개
+      const spans = div.querySelectorAll('span');
+      //1)당번기록(회차,날짜,당번6,보너스)
+      spans.forEach((span, j) => {span.textContent = 현재값[j];});
+    });
+  // 이후 필요 : 현재당번6, 이전당번6,
+
 }
 
 

diff --git a/portal/assets/css/ycy.css b/portal/assets/css/ycy.css
@@ -8,7 +8,7 @@ body {font-family: monospace;font-weight: bold;white-space: nowrap;}
 .자식div상하붙임 > div {margin-bottom:-1px;}
 /* span 공통(1)당번부분 높이까지 포괄 */
 :is(#기본_다음당번, #기본_당번, #기본_321구조) > div > span,
-:is(#기본_321당첨구조,#기본_321개수구조,#기본_321평균구조, #기본_30주개수구조, #기본_30주당첨구조,
+:is(#기본_321당첨구조,#기본_321개수구조,#기본_321평균구조, #기본_30주개수구조, #기본_30주당첨구조,#기본_30주평균구조,
  #기본_빈공간개수구조, #기본_빈공간당첨구조, #기본_빈공간평균구조,) > div > div > span
 {display: inline-block;border:1px solid black;height:24px;vertical-align: top;padding-top:1px;
 font-size:14px;font-weight: bold;text-align: center;margin-right:-1px;}
@@ -16,14 +16,20 @@ font-size:14px;font-weight: bold;text-align: center;margin-right:-1px;}
 #기본_다음당번 > div > span:not(:nth-of-type(1),:nth-of-type(2)),
 :is(#기본_다음당번,#기본_당번) > div > span:not(:nth-of-type(1),:nth-of-type(2)) {width:24px;}
 :is(#기본_321당첨구조,#기본_321개수구조,#기본_321평균구조, #기본_30주개수구조, 
-#기본_30주당첨구조, #기본_빈공간개수구조, #기본_빈공간당첨구조, #기본_빈공간평균구조) > div > div > span {width:24px;}
+#기본_30주당첨구조,#기본_30주평균구조, #기본_빈공간개수구조, #기본_빈공간당첨구조, #기본_빈공간평균구조) > div > div > span {width:24px;}
 /* span 공통(3) 회차와 날짜의 넓이 */
 #기본_다음당번 > div > span:nth-of-type(1),:is(#기본_다음당번,#기본_당번) > div > span:nth-of-type(1){width:40px;}
-#기본_다음당번 > div > span:nth-of-type(2),:is(#기본_다음당번,#기본_당번) > div > span:nth-of-type(2){width:80px;}
+#기본_다음당번 > div > span:nth-of-type(2),:is(#기본_다음당번,#기본_당번) > div > span:nth-of-type(2){width:90px;}
 /* 요소 드래그할때 이미지는 자체 드래그 액션이 있는데 막아줌 */
 img {-webkit-user-drag: none;user-select: none;}
-#기본_당번기능 button {border:1px solid black;width:25px;}
+/* 자식버튼없어도 높이 유지 */
+.기본_321_기능 {height:21px;}
+/* 버튼 1px */
+#기본_당번기능 button, .기본_321_기능 > button {border:1px solid black;}
+/* 버튼 테두리제외 설정 */
+#기본_당번기능 button {width:25px;}
 
+#기본_321당첨_머리글 span {font-size:10px;}
 
 
 #캔버스바디 > div {display:inline-block;width:625px;}
